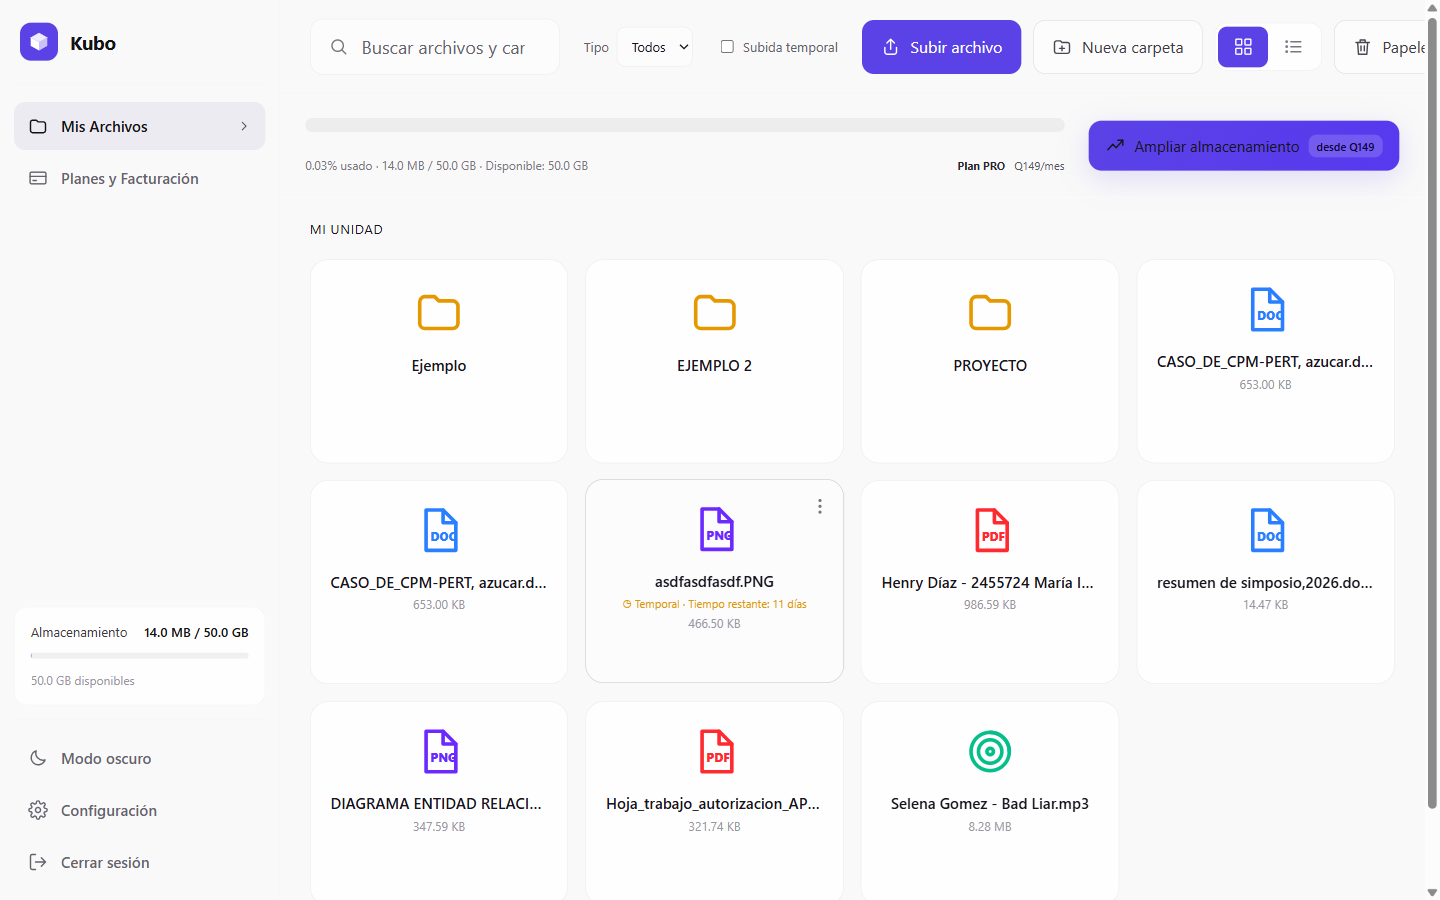
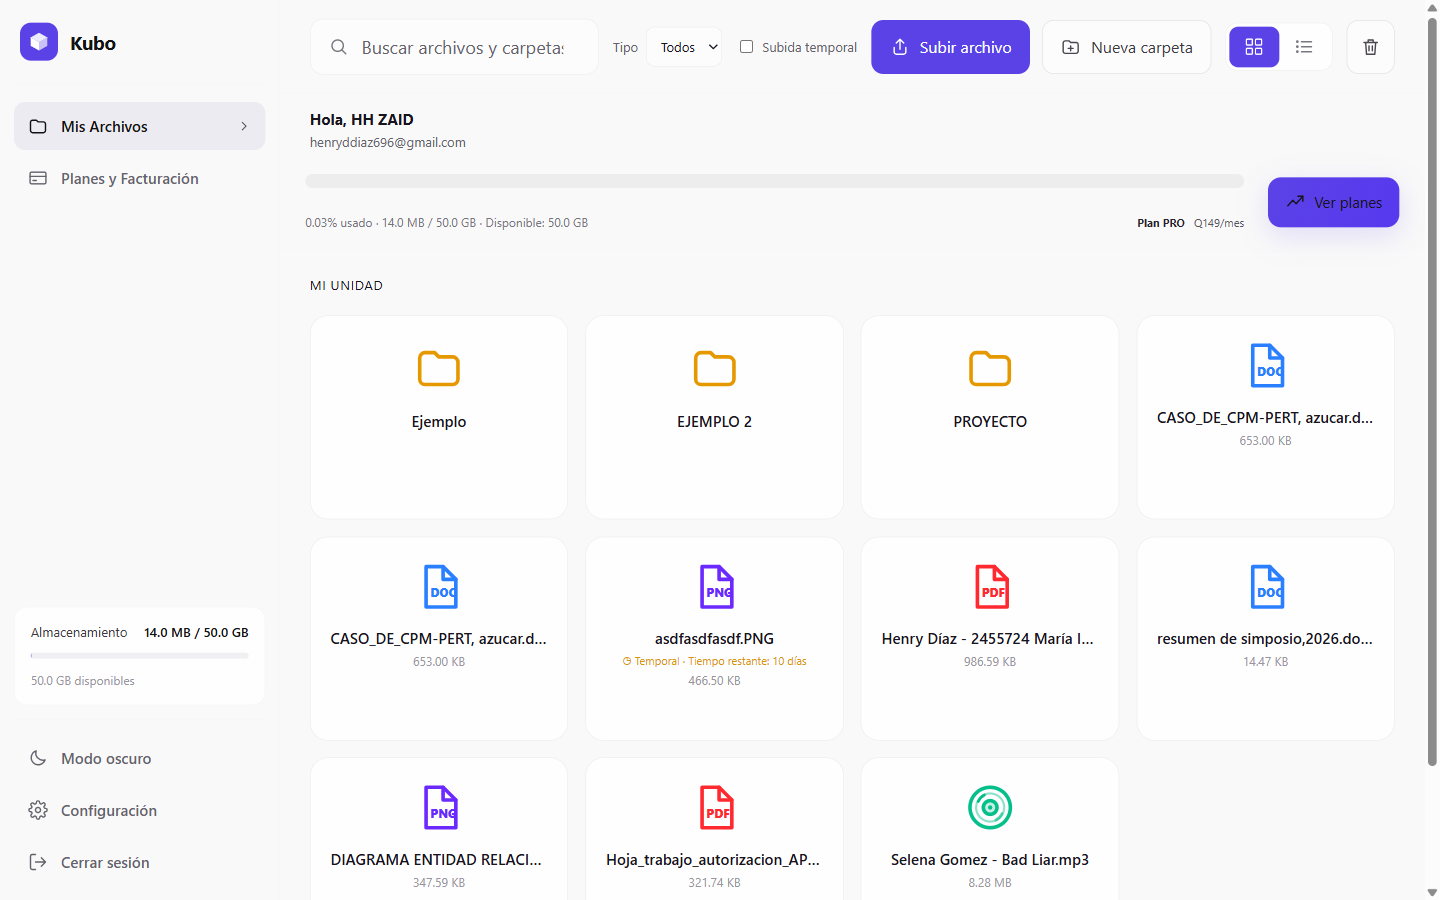
docs(manual): Capturas de administración, vista previa, celular y estado del reporte

diff --git a/REPORTE_CARENCIAS_FRONT.md b/REPORTE_CARENCIAS_FRONT.md
@@ -111,3 +111,25 @@ Lo que ya funciona bien: modo claro/oscuro con tokens (`styles/theme.css`), skel
 3. A6, A7 — distribución de la barra de herramientas y navegación móvil.
 4. A4, M2, M4 — vista previa, duración de enlaces, breadcrumbs.
 5. M1, M3, M5, M9, M10 y el resto.
+
+---
+
+## 7. Estado tras las correcciones (4 de noviembre de 2026)
+
+| Hallazgo | Estado | Qué se hizo |
+|---|---|---|
+| A1 Pantalla en blanco al cargar | Resuelto | Esqueletos en el área principal y el menú; el perfil se pide una sola vez por carga. |
+| A2 Textos técnicos | Resuelto | Mensajes para el cliente en pagos y resumen; el desglose por tipo ahora es real (nuevo dato `por_tipo` en `/api/storage/usage/`); referencias sin `MOCK-`. |
+| A3 Comparación de planes | Resuelto | Cada plan muestra con ✓ lo que incluye y tachado lo que no (cliente y landing). Textos del plan FREE actualizados desde el panel de administración. |
+| A4 Vista previa | Resuelto | Vista previa de PNG, PDF y MP3 (DOC/DOCX se descargan). |
+| A5 Error en inglés | Resuelto | Traducción de mensajes de Django/SimpleJWT y de errores HTTP. |
+| A6 Barra desbordada | Resuelto | La barra se acomoda; Papelera como botón de icono en escritorio mediano. |
+| A7 Navegación móvil | Resuelto | Barra superior fija con ☰, menú "Opciones" en Mis Archivos, pestañas en Facturación, tarjetas en historial y tablas de administración, filtros plegables. |
+| M2 Duración de enlaces | Se mantiene | Decisión del equipo: 7 días fijos. |
+| M6 Salto del saludo | Resuelto | Esqueleto del saludo y de la barra de uso. |
+| M7 "Ampliar almacenamiento" en PRO | Resuelto | En planes de pago dice "Ver planes". |
+| M8 "Contratar" en Free | Resuelto | Ahora dice "Cambiar a Free" con estilo secundario. |
+| B1 / B2 Pestaña del navegador | Resuelto | Título por sección ("Mis archivos · Kubo") e icono del cubo de Kubo. |
+| B4 Icono MP3 | Resuelto | Disco de música verde. |
+| Admin: códigos en inglés | Resuelto | Roles, estados de suscripción y de pago en español. |
+| M1, M3, M4, M5, M9, M10, B3, B5–B8 | Pendiente | Sin cambios en esta entrega. |
